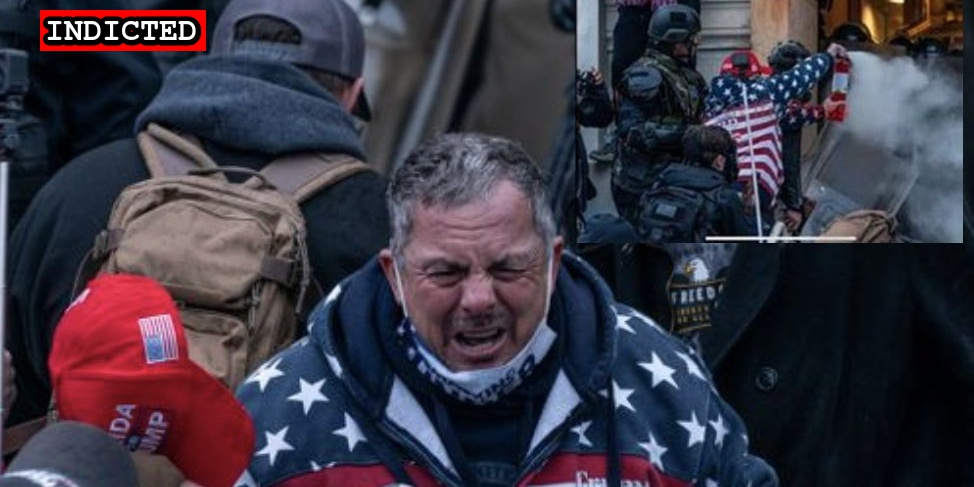
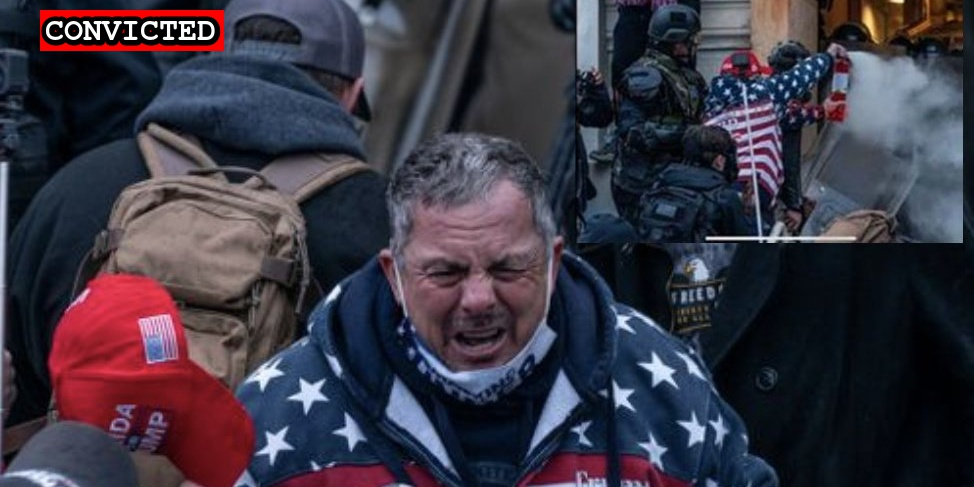
Latest plea

Changed region(s): [[0.0308, 0.0, 0.2464, 0.1232]]

diff --git a/commands/sheet-publish.ts b/commands/sheet-publish.ts
@@ -40,7 +40,9 @@ const publishSheet = async () => {
     "Sedition Track",
     "Charged",
     "Indicted",
+    "Plea Hearing",
     "Convicted",
+    "Sentencing",
     "Sentenced",
     "Dismissed",
     "Deceased",
@@ -98,7 +100,9 @@ const publishSheet = async () => {
       "Sedition Track": suspectUrl,
       Charged: suspect.charged,
       Indicted: suspect.indicted,
+      "Plea Hearing": suspect.plea_hearing,
       Convicted: suspect.convicted,
+      Sentencing: suspect.sentencing,
       Sentenced: suspect.sentenced,
       Dismissed: suspect.dismissed,
       Deceased: suspect.deceased,

diff --git a/docs/_suspects/robert-palmer.md b/docs/_suspects/robert-palmer.md
@@ -4,15 +4,15 @@ lastName: Palmer
 hashtag: FloridaFlagJacket
 aka:
 residence: Florida
-status: Indicted
+status: Convicted
 date: 2021-03-17
 charged: 2021-03-17
 indicted: 2021-04-28
-convicted:
+convicted: 2021-10-04
 sentenced:
 dismissed:
 deceased:
-plea_hearing:
+plea_hearing: 2021-10-04
 sentencing:
 age: 53
 occupation:
@@ -34,6 +34,10 @@ published: true
 caseNumber: 1:21-cr-328
 videos:
 charges:
+  - code: "18 USC § 111(a)(1) and (b)"
+    title: "Assaulting, resisting, or impeding certain officers or employees using a dangerous or deadly weapon"
+    url: "https://www.law.cornell.edu/uscode/text/18/111"
+    felony: true
 sentence:
 ---
 
